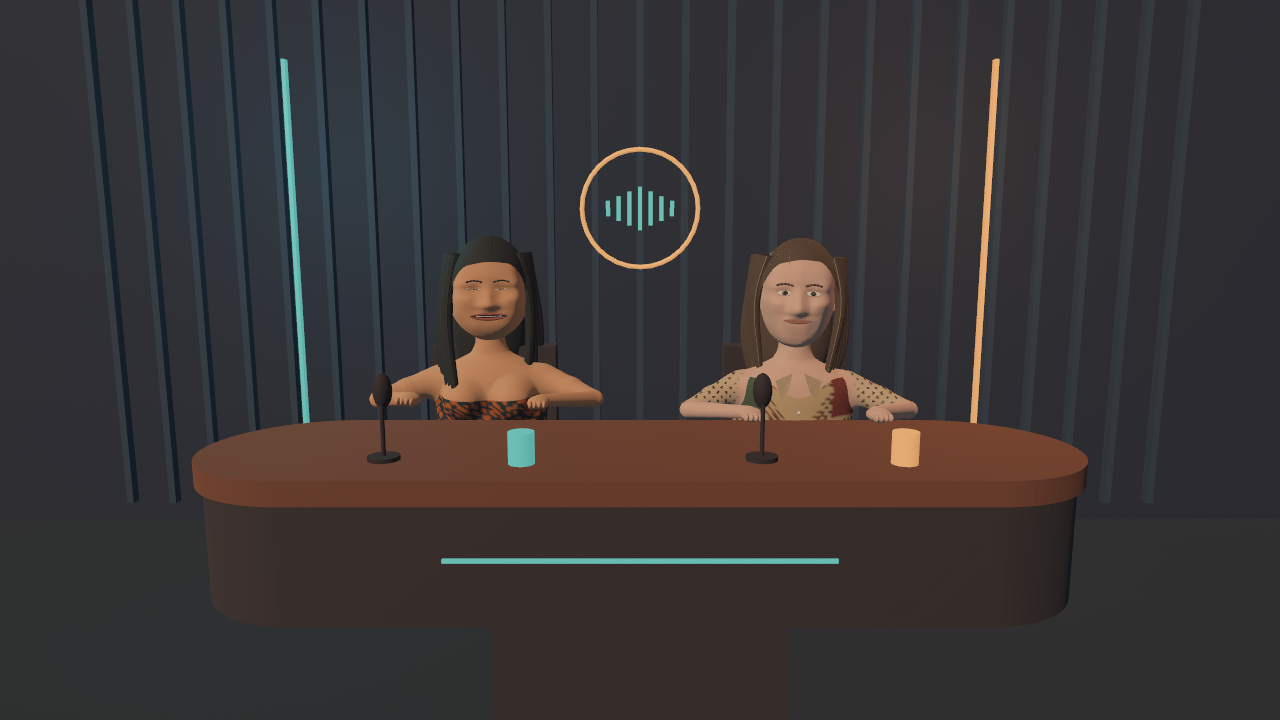
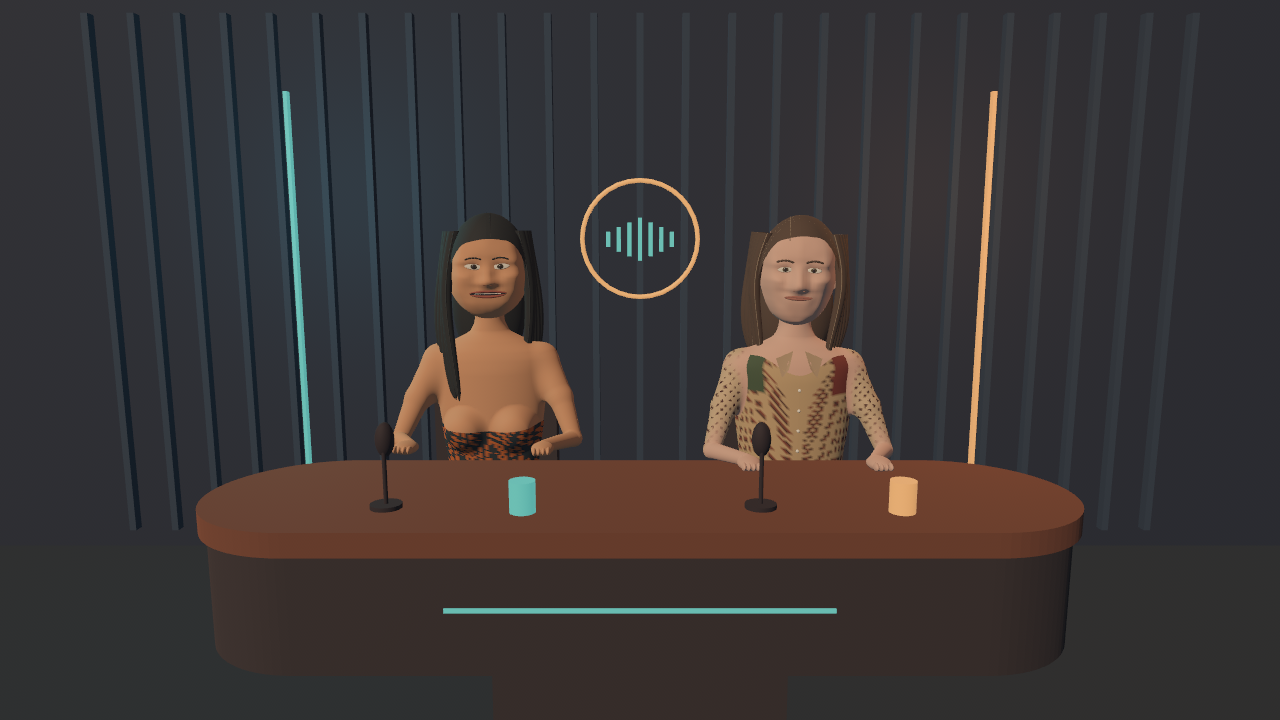
Lower chest proportions and relax arms at navel-height desk

diff --git a/src/studio/body.rs b/src/studio/body.rs
@@ -15,6 +15,21 @@ pub struct Surface {
     colors: Vec<[f32; 4]>,
 }
 
+pub const CHEST_CENTER_Y: f32 = 0.20;
+pub const NAVEL_Y: f32 = 0.10;
+
+pub fn wrist(side: f32) -> Vec3 {
+    Vec3::new(-side * 0.01, -0.38, 0.46)
+}
+
+fn elbow(side: f32) -> Vec3 {
+    Vec3::new(side * 0.12, -0.40, 0.16)
+}
+
+fn upper_arm(side: f32) -> Vec3 {
+    Vec3::new(side * 0.06, -0.20, 0.075)
+}
+
 pub fn shoulder(side: f32) -> Vec3 {
     Vec3::new(side * 0.29, 0.55, 0.0)
 }
@@ -99,14 +114,14 @@ pub fn front(index: usize, horizontal: f32, height: f32) -> f32 {
 }
 
 pub fn chest_offset(index: usize, horizontal: f32, height: f32, depth: f32) -> f32 {
-    if index != 0 || depth <= 0.0 || (height - 0.47).abs() >= 0.100 * 1.35 {
+    if index != 0 || depth <= 0.0 || (height - CHEST_CENTER_Y).abs() >= 0.100 * 1.35 {
         return 0.0;
     }
     let profile = profile(index, height);
     let baseline = profile.y * (1.0 - (horizontal / profile.x).powi(2)).max(0.0).sqrt();
     let cap = |center: f32| {
         let radial_squared =
-            ((horizontal - center) / 0.095).powi(2) + ((height - 0.47) / 0.100).powi(2);
+            ((horizontal - center) / 0.095).powi(2) + ((height - CHEST_CENTER_Y) / 0.100).powi(2);
         let radius = radial_squared.sqrt();
         if radius >= 1.35 {
             return 0.0;
@@ -132,7 +147,7 @@ fn torso_distance(index: usize, point: Vec3) -> f32 {
     let depth = point.z - chest_offset(index, point.x, point.y, point.z);
     let radial =
         (Vec2::new(point.x / profile.x, depth / profile.y).length() - 1.0) * profile.min_element();
-    radial.max(0.34 - point.y).max(point.y - 0.83)
+    radial.max(-0.10 - point.y).max(point.y - 0.83)
 }
 
 fn capsule(point: Vec3, start: Vec3, end: Vec3, start_radius: f32, end_radius: f32) -> f32 {
@@ -150,9 +165,9 @@ fn smooth_union(first: f32, second: f32, radius: f32) -> f32 {
 fn arm_distance(point: Vec3, side: f32) -> f32 {
     let point = point - shoulder(side);
     let shoulder = Vec3::new(-side * 0.025, 0.005, 0.0);
-    let upper = Vec3::new(side * 0.12, -0.055, 0.075);
-    let elbow = Vec3::new(side * 0.24, -0.095, 0.16);
-    let wrist = Vec3::new(-side * 0.01, -0.055, 0.46);
+    let upper = upper_arm(side);
+    let elbow = elbow(side);
+    let wrist = wrist(side);
     let upper_arm = smooth_union(
         capsule(point, shoulder, upper, 0.073, 0.061),
         capsule(point, upper, elbow, 0.061, 0.040),
@@ -213,9 +228,9 @@ fn color(index: usize, point: Vec3, weights: [f32; 4]) -> [f32; 4] {
 
 impl Surface {
     fn generate(index: usize) -> Self {
-        let origin = Vec3::new(-0.648, 0.300, -0.228);
-        let step = 0.012;
-        let dimensions = [109, 47, 66];
+        let origin = Vec3::new(-0.648, -0.132, -0.228);
+        let step = 0.013;
+        let dimensions = [101, 77, 62];
         let grid_index = |horizontal: usize, vertical: usize, depth: usize| {
             horizontal + dimensions[0] * (vertical + dimensions[1] * depth)
         };
@@ -350,7 +365,7 @@ impl Surface {
         }
         for (point, normal) in surface.positions.iter().zip(&mut surface.normals) {
             let point = Vec3::from_array(*point);
-            if (0.36..0.81).contains(&point.y) {
+            if (-0.08..0.81).contains(&point.y) {
                 *normal = surface_normal(index, point).to_array();
             }
         }
@@ -389,11 +404,41 @@ mod tests {
     use super::*;
 
     #[test]
+    fn chest_sits_below_shoulders_with_half_coverage() {
+        let chest_top = CHEST_CENTER_Y + 0.100 * 1.35;
+        let chest_bottom = CHEST_CENTER_Y - 0.100 * 1.35;
+        let chest_height = chest_top - chest_bottom;
+        let shoulder_top = surface(0)
+            .positions
+            .iter()
+            .filter(|point| (0.24..0.34).contains(&point[0].abs()) && point[2].abs() < 0.07)
+            .map(|point| point[1])
+            .fold(f32::NEG_INFINITY, f32::max);
+        let gap = shoulder_top - chest_top;
+        assert!(gap > chest_height && gap < chest_height * 1.15);
+        let garment = super::super::portrait::garment(0);
+        let Some(VertexAttributeValues::Float32x3(positions)) =
+            garment.attribute(Mesh::ATTRIBUTE_POSITION)
+        else {
+            panic!("missing garment positions")
+        };
+        for side in [-1.0_f32, 1.0] {
+            let neckline = positions
+                .iter()
+                .filter(|point| (point[0] - side * 0.125).abs() < 0.015 && point[2] > 0.0)
+                .map(|point| point[1])
+                .fold(f32::NEG_INFINITY, f32::max);
+            let coverage = (neckline - chest_bottom) / chest_height;
+            assert!((0.45..0.60).contains(&coverage), "coverage: {coverage}");
+        }
+    }
+
+    #[test]
     fn elbows_do_not_form_a_rounded_joint_bulge() {
         for side in [-1.0, 1.0] {
-            let upper = Vec3::new(side * 0.12, -0.055, 0.075);
-            let elbow = Vec3::new(side * 0.24, -0.095, 0.16);
-            let wrist = Vec3::new(-side * 0.01, -0.055, 0.46);
+            let upper = upper_arm(side);
+            let elbow = elbow(side);
+            let wrist = wrist(side);
             let normal = (upper - elbow).cross(wrist - elbow).normalize();
             let center = shoulder(side) + elbow;
             for direction in [-1.0, 1.0] {
@@ -410,7 +455,7 @@ mod tests {
                 for segment in 0..16 {
                     let angle = segment as f32 / 16.0 * std::f32::consts::TAU;
                     let horizontal = center + 0.095 * radius * angle.cos();
-                    let height = 0.47 + 0.100 * radius * angle.sin();
+                    let height = CHEST_CENTER_Y + 0.100 * radius * angle.sin();
                     let profile = profile(0, height);
                     let reference = profile.y * (1.0 - (center / profile.x).powi(2)).sqrt();
                     let expected = reference + 0.095 * (1.0 - radius.powi(2)).sqrt();
@@ -419,7 +464,7 @@ mod tests {
             }
             for boundary in [0.75_f32, 1.35] {
                 let horizontal = center;
-                let height = 0.47 + 0.100 * boundary;
+                let height = CHEST_CENTER_Y + 0.100 * boundary;
                 let offset = chest_offset(0, horizontal, height, 0.15);
                 let before =
                     (offset - chest_offset(0, horizontal, height - 0.00001, 0.15)) / 0.00001;
@@ -432,7 +477,11 @@ mod tests {
 
     #[test]
     fn chest_has_two_subtle_front_contours_and_a_central_valley() {
-        for height in [0.42, 0.45, 0.48] {
+        for height in [
+            CHEST_CENTER_Y - 0.05,
+            CHEST_CENTER_Y - 0.02,
+            CHEST_CENTER_Y + 0.01,
+        ] {
             let center = front(0, 0.0, height);
             let left = front(0, -0.125, height);
             let right = front(0, 0.125, height);
@@ -442,28 +491,28 @@ mod tests {
             assert!(torso_distance(0, Vec3::new(0.0, height, center)).abs() < 0.000001);
             assert!(torso_distance(0, Vec3::new(0.125, height, right)).abs() < 0.000001);
         }
-        let upper_center = front(0, 0.0, 0.51);
-        let upper_contour = front(0, 0.125, 0.51);
+        let upper_center = front(0, 0.0, CHEST_CENTER_Y + 0.04);
+        let upper_contour = front(0, 0.125, CHEST_CENTER_Y + 0.04);
         assert!(upper_contour > upper_center + 0.025);
-        assert!(upper_contour > 0.215 && upper_contour < 0.235);
+        assert!(upper_contour > 0.205 && upper_contour < 0.225);
         let (peak_position, peak_depth) = (1..=190)
             .map(|step| {
                 let horizontal = step as f32 / 1000.0;
-                (horizontal, front(0, horizontal, 0.47))
+                (horizontal, front(0, horizontal, CHEST_CENTER_Y))
             })
             .max_by(|first, second| first.1.total_cmp(&second.1))
             .unwrap();
         assert!((0.110..0.135).contains(&peak_position));
-        assert!((0.230..0.235).contains(&peak_depth));
-        let peak_height = (400..=540)
-            .map(|step| step as f32 / 1000.0)
+        assert!((0.215..0.225).contains(&peak_depth));
+        let peak_height = (-70..=70)
+            .map(|step| CHEST_CENTER_Y + step as f32 / 1000.0)
             .max_by(|first, second| front(0, 0.125, *first).total_cmp(&front(0, 0.125, *second)))
             .unwrap();
-        assert!((0.468..0.475).contains(&peak_height));
+        assert!((peak_height - CHEST_CENTER_Y).abs() < 0.015);
         for horizontal in [-0.2, -0.11, 0.0, 0.11, 0.2] {
-            assert_eq!(chest_offset(0, horizontal, 0.46, -0.15), 0.0);
+            assert_eq!(chest_offset(0, horizontal, CHEST_CENTER_Y, -0.15), 0.0);
             assert_eq!(chest_offset(0, horizontal, 0.70, 0.15), 0.0);
-            assert_eq!(chest_offset(1, horizontal, 0.46, 0.15), 0.0);
+            assert_eq!(chest_offset(1, horizontal, CHEST_CENTER_Y, 0.15), 0.0);
         }
         let garment = super::super::portrait::garment(0);
         let Some(VertexAttributeValues::Float32x3(positions)) =
@@ -473,7 +522,7 @@ mod tests {
         };
         for position in positions {
             let point = Vec3::from_array(*position);
-            if point.y >= 0.35 && point.z > 0.0 {
+            if point.y > -0.09 && point.z > 0.0 {
                 assert!(
                     torso_distance(0, point) > 0.0,
                     "garment cuts into chest: {point:?}"
@@ -485,8 +534,8 @@ mod tests {
     #[test]
     fn forearms_taper_from_the_single_elbow_to_the_wrist_without_an_extra_joint() {
         for side in [-1.0, 1.0] {
-            let elbow = Vec3::new(side * 0.24, -0.095, 0.16);
-            let wrist = Vec3::new(-side * 0.01, -0.055, 0.46);
+            let elbow = elbow(side);
+            let wrist = wrist(side);
             let direction = (wrist - elbow).normalize();
             let tangent = direction.any_orthonormal_vector();
             let bitangent = direction.cross(tangent);

diff --git a/src/studio.rs b/src/studio.rs
@@ -129,7 +129,7 @@ pub fn host_motion(elapsed: f32, index: usize, speech: f32) -> (Quat, f32) {
             0.025 * (phase * 0.37).sin(),
             0.012 * (phase * 0.53).sin(),
         ),
-        0.76 + 0.006 * (phase * 1.7).sin(),
+        DESK_SURFACE_Y - body::NAVEL_Y + 0.006 * (phase * 1.7).sin(),
     )
 }
 
@@ -139,7 +139,11 @@ fn host_rest(index: usize) -> Transform {
     } else {
         0.0
     };
-    Transform::from_xyz(if index == 0 { -0.76 } else { 0.76 }, 0.76, depth)
+    Transform::from_xyz(
+        if index == 0 { -0.76 } else { 0.76 },
+        DESK_SURFACE_Y - body::NAVEL_Y,
+        depth,
+    )
 }
 
 pub fn arm_rotation(phase: f32, side: f32, speech: f32) -> Quat {
@@ -153,7 +157,7 @@ pub fn arm_rotation(phase: f32, side: f32, speech: f32) -> Quat {
 }
 
 fn hand_parts(side: f32) -> [Transform; 5] {
-    let wrist = Vec3::new(-side * 0.01, -0.055, 0.46);
+    let wrist = body::wrist(side);
     std::array::from_fn(|index| {
         if index == 0 {
             Transform::from_translation(wrist + Vec3::new(0.0, 0.0, 0.06))
@@ -813,7 +817,7 @@ pub fn setup(
         Camera3d::default(),
         NoIndirectDrawing,
         Msaa::Sample4,
-        Transform::from_xyz(0.0, 2.12, 4.25).looking_at(Vec3::new(0.0, 1.44, 0.0), Vec3::Y),
+        Transform::from_xyz(0.0, 2.32, 4.25).looking_at(Vec3::new(0.0, 1.64, 0.0), Vec3::Y),
     ));
 }
 
@@ -1245,8 +1249,40 @@ mod tests {
     }
 
     #[test]
+    fn raised_hosts_keep_the_desk_at_navel_height_and_arms_relaxed() {
+        for index in 0..2 {
+            let rest = host_rest(index);
+            assert!((rest.translation.y + body::NAVEL_Y - DESK_SURFACE_Y).abs() < 0.00001);
+            for frame in 0..240 {
+                let (rotation, height) = host_motion(frame as f32 * 0.25, index, 1.0);
+                let host = Transform {
+                    rotation,
+                    translation: Vec3::new(0.0, height, 0.0),
+                    ..rest
+                };
+                let navel = host.transform_point(Vec3::new(
+                    0.0,
+                    body::NAVEL_Y,
+                    body::front(index, 0.0, body::NAVEL_Y),
+                ));
+                assert!((navel.y - DESK_SURFACE_Y).abs() < 0.015);
+            }
+            for side in [-1.0, 1.0] {
+                let bounds = arm_bounds(index, side);
+                let mut arm = Transform::from_translation(body::shoulder(side))
+                    .with_rotation(arm_rotation(0.0, side, 0.0));
+                bounds.keep_above_desk(&rest, &mut arm);
+                let shoulder = rest.transform_point(arm.translation);
+                let wrist = rest.transform_point(arm.transform_point(body::wrist(side)));
+                assert!(shoulder.y - wrist.y > 0.35);
+                assert!((DESK_SURFACE_Y..DESK_SURFACE_Y + 0.12).contains(&wrist.y));
+            }
+        }
+    }
+
+    #[test]
     fn already_clear_arms_do_not_move() {
-        let host = Transform::from_xyz(0.0, 1.0, 0.0);
+        let host = Transform::from_xyz(0.0, 1.3, 0.0);
         let bounds = arm_bounds(0, -1.0);
         let mut arm = Transform::from_xyz(-0.29, 0.55, 0.0);
         let original = arm;

diff --git a/src/main.rs b/src/main.rs
@@ -407,17 +407,17 @@ fn move_camera(
     }
     let portrait = session.options.portrait_preview;
     let target = if portrait {
-        Vec3::new(0.0, 1.73, 0.0)
+        Vec3::new(0.0, 1.96, 0.0)
     } else {
-        Vec3::new(0.0, 1.44, 0.0)
+        Vec3::new(0.0, 1.64, 0.0)
     };
     let position = match (portrait, session.camera) {
-        (true, 1) => Vec3::new(-1.25, 1.82, 2.20),
-        (true, 2) => Vec3::new(1.25, 1.82, 2.20),
-        (true, _) => Vec3::new(0.0, 1.82, 2.20),
-        (false, 1) => Vec3::new(-2.3, 2.05, 3.7),
-        (false, 2) => Vec3::new(2.3, 2.05, 3.7),
-        _ => Vec3::new(0.0, 2.12, 4.25),
+        (true, 1) => Vec3::new(-1.25, 2.13, 2.20),
+        (true, 2) => Vec3::new(1.25, 2.13, 2.20),
+        (true, _) => Vec3::new(0.0, 2.13, 2.20),
+        (false, 1) => Vec3::new(-2.3, 2.25, 3.7),
+        (false, 2) => Vec3::new(2.3, 2.25, 3.7),
+        _ => Vec3::new(0.0, 2.32, 4.25),
     };
     for mut transform in &mut cameras {
         let amount = 1.0 - (-time.delta_secs() * 1.3).exp();

diff --git a/src/studio/portrait.rs b/src/studio/portrait.rs
@@ -391,7 +391,7 @@ pub fn garment(index: usize) -> Mesh {
             let angle = segment as f32 / segments as f32 * PI * 2.0;
             let front = angle.cos().max(0.0);
             let neckline = if index == 0 {
-                0.47 + 0.025 * angle.sin().abs()
+                super::body::CHEST_CENTER_Y + 0.025 * angle.sin().abs()
             } else {
                 0.61 - 0.09 * front.powi(12)
             };

diff --git a/README.md b/README.md
@@ -26,7 +26,8 @@ OBS records the app window and the two audio channels.
   the torso without opening gaps; the surface is generated only at startup.
   Slimmer elbow transitions avoid rounded joint knobs. Host 1's chest has
   two rounded, hemisphere-like contours with a central valley, shared by skin
-  and top.
+  and top. The chest sits lower, with a shoulder-to-chest gap slightly greater
+  than its full height; the top covers approximately the lower half.
 - Independent audio-driven mouth opening and vowel-like lip shapes, with a
   noise threshold and smooth transitions. Local spectral/formant analysis approximates
   open A, wide E/I and rounded O/U shapes; it is not phoneme recognition.
@@ -36,6 +37,8 @@ OBS records the app window and the two audio channels.
   bounds, without a physics engine.
   Host 1 sits farther back so the chest and top stay behind the desk edge
   during leaning and breathing, while both hands still reach the tabletop.
+  Both hosts sit higher, with the desk at navel height and their upper arms
+  hanging down into a relaxed, bent-elbow posture.
 - A shared desk, studio lighting, microphones and three smoothly changing
   camera angles. Rendering starts at 1280 × 720 with a 30 fps target.
   The rounded tabletop and inset apron are closed meshes, avoiding overlapping
